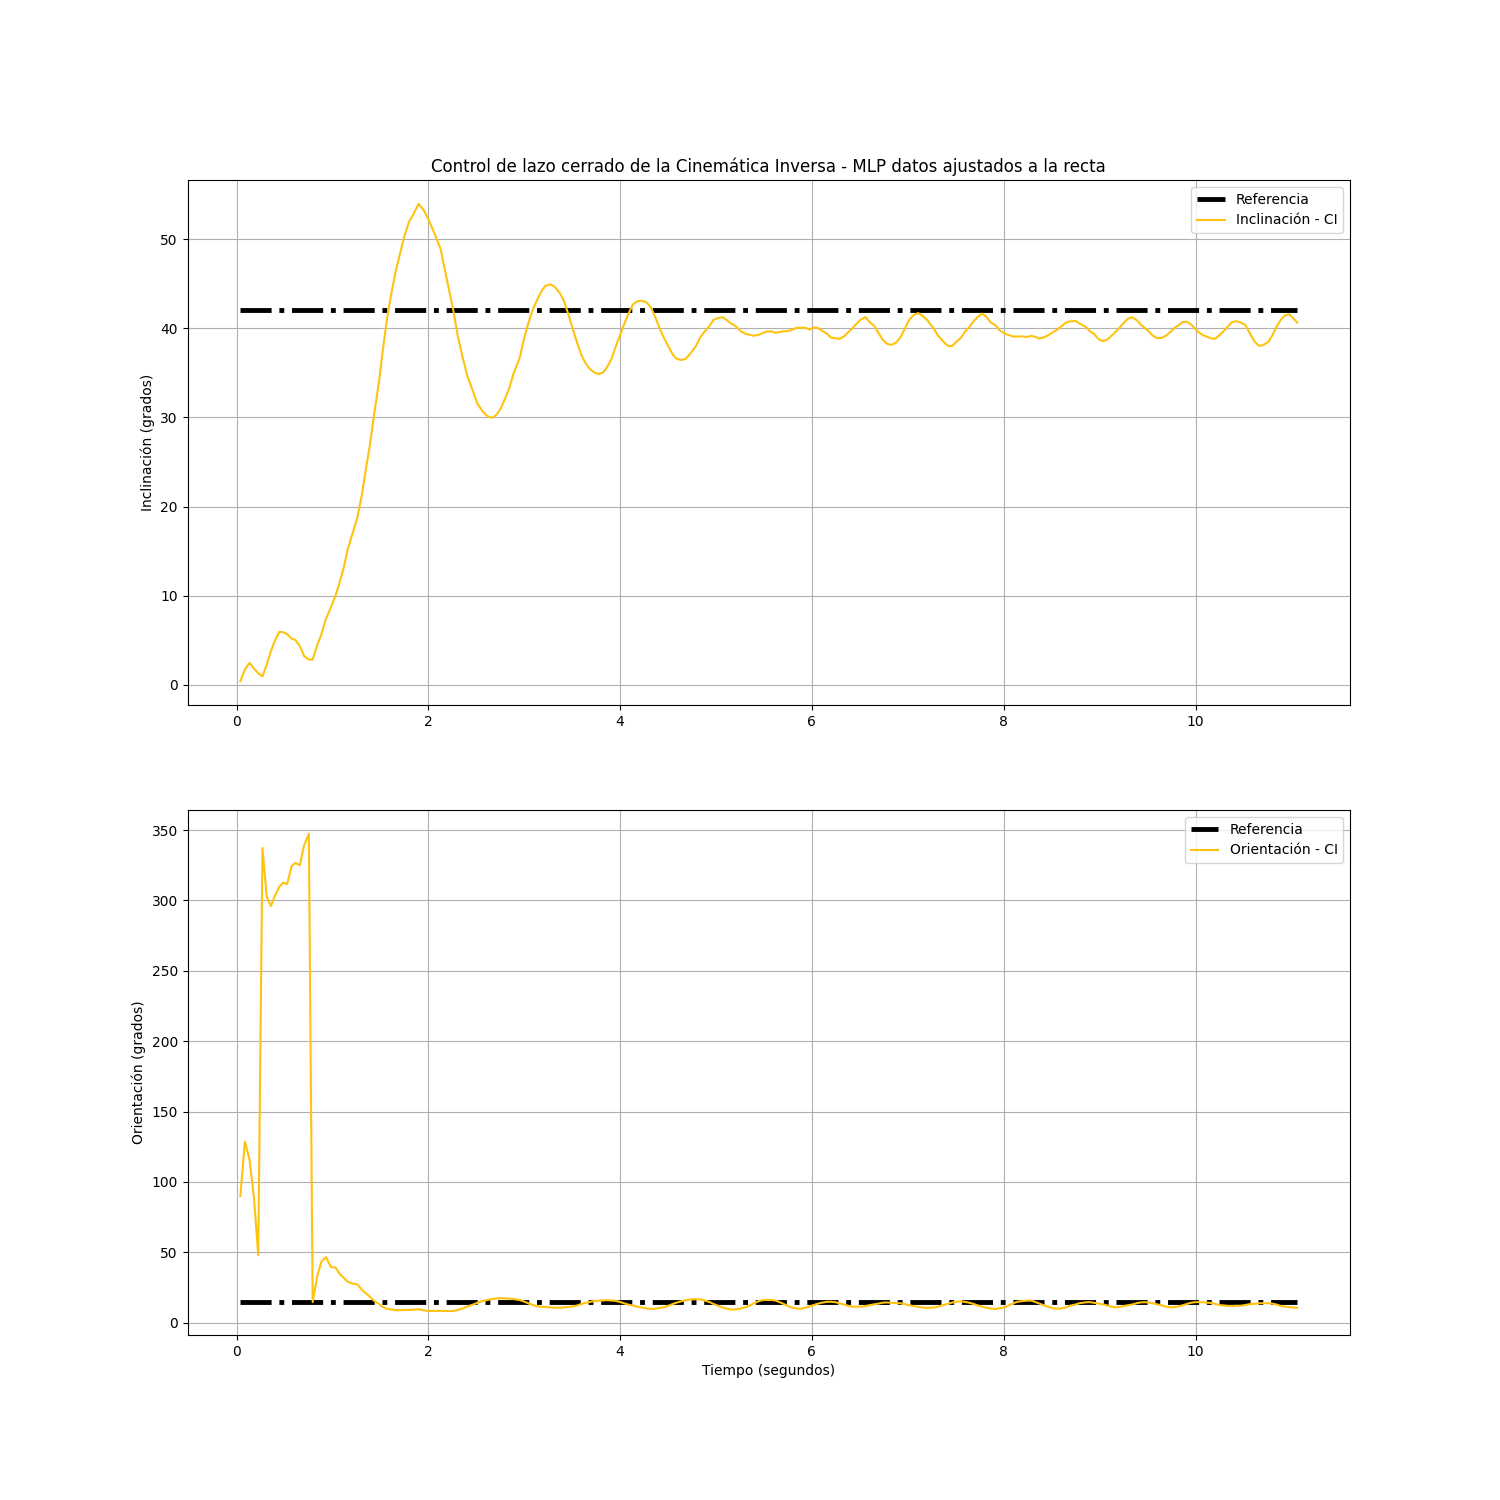
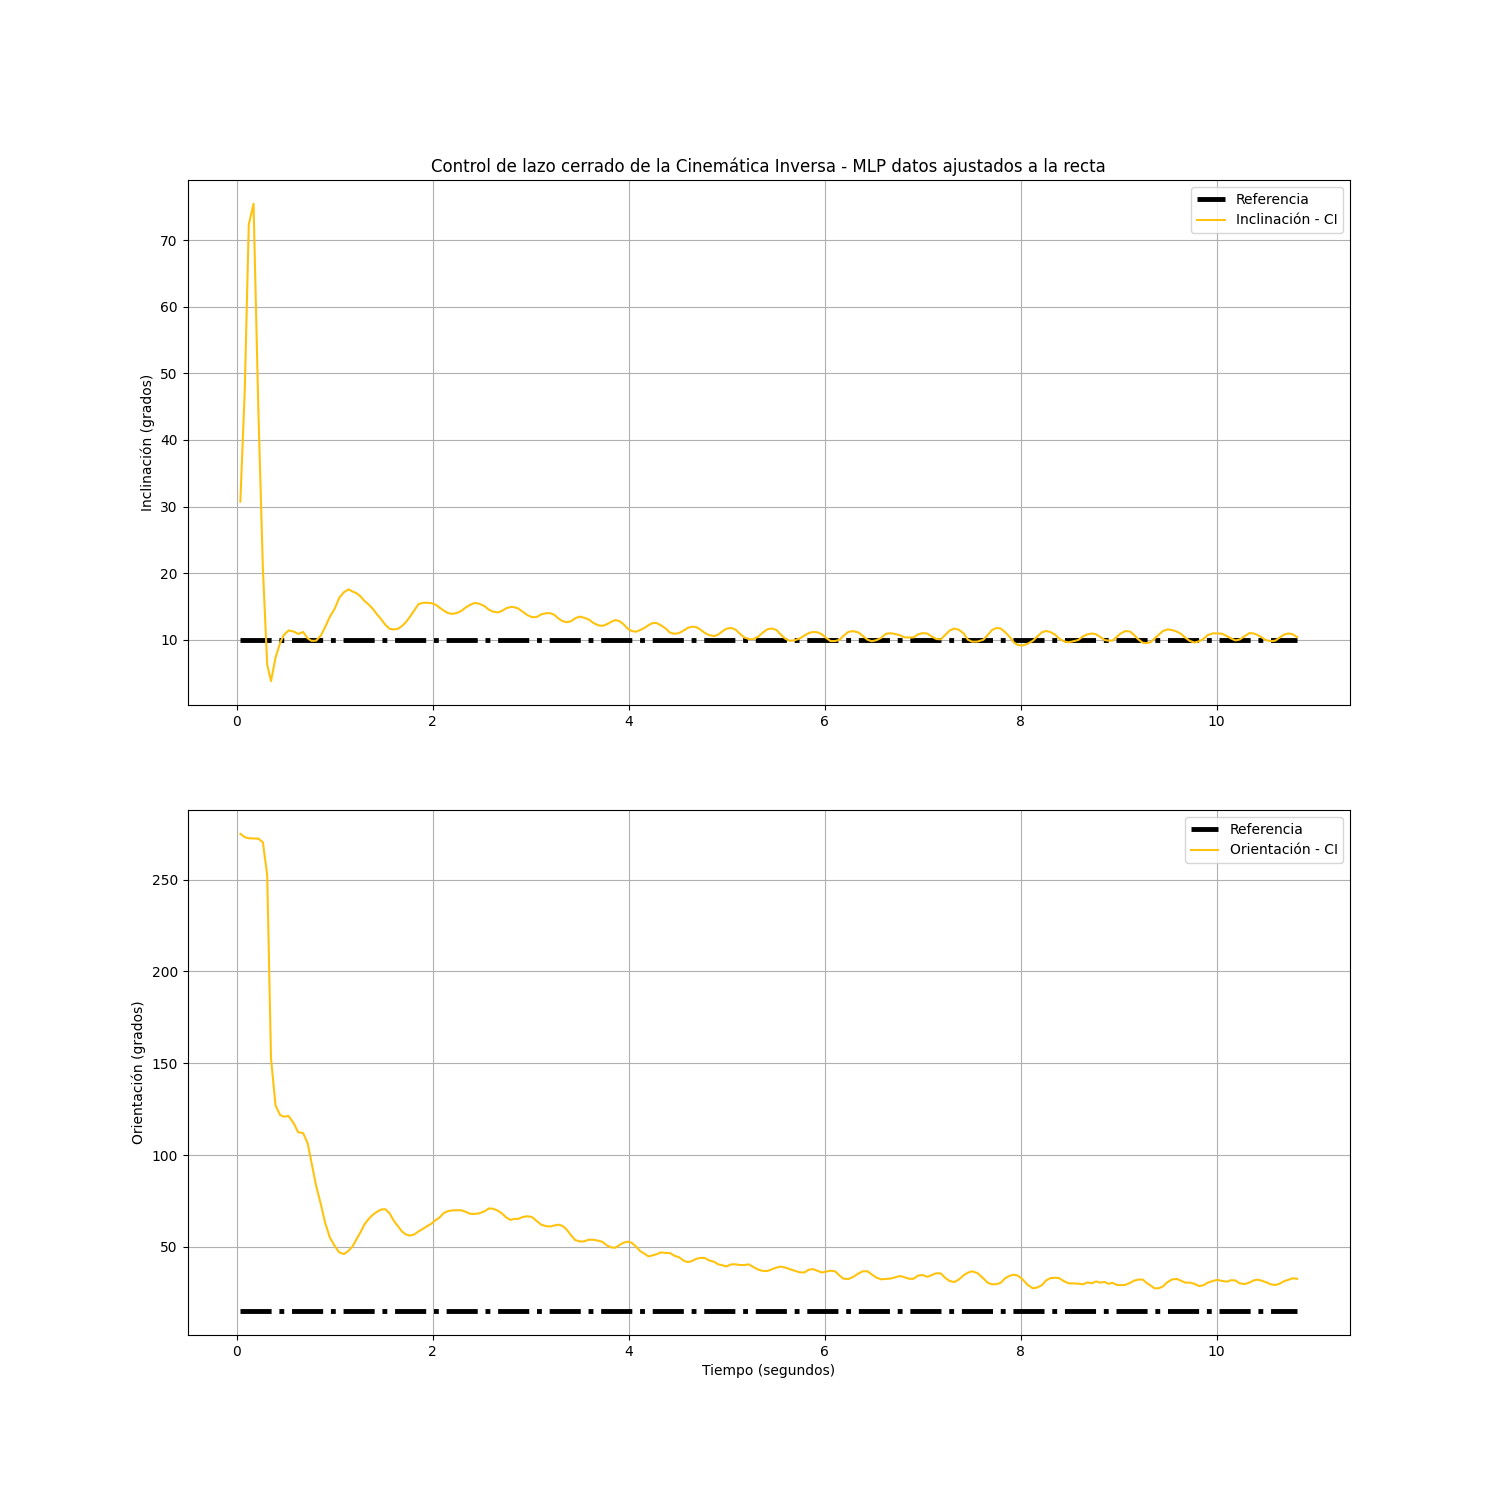
Updating Cia402device

diff --git a/CiA402DevicePython/CiA301CommPort.py b/CiA402DevicePython/CiA301CommPort.py
@@ -1,0 +1,132 @@
+# This file was automatically generated by SWIG (http://www.swig.org).
+# Version 4.0.2
+#
+# Do not make changes to this file unless you know what you are doing--modify
+# the SWIG interface file instead.
+
+from sys import version_info as _swig_python_version_info
+if _swig_python_version_info < (2, 7, 0):
+    raise RuntimeError("Python 2.7 or later required")
+
+# Import the low-level C/C++ module
+if __package__ or "." in __name__:
+    from . import _CiA301CommPort
+else:
+    import _CiA301CommPort
+
+try:
+    import builtins as __builtin__
+except ImportError:
+    import __builtin__
+
+def _swig_repr(self):
+    try:
+        strthis = "proxy of " + self.this.__repr__()
+    except __builtin__.Exception:
+        strthis = ""
+    return "<%s.%s; %s >" % (self.__class__.__module__, self.__class__.__name__, strthis,)
+
+
+def _swig_setattr_nondynamic_instance_variable(set):
+    def set_instance_attr(self, name, value):
+        if name == "thisown":
+            self.this.own(value)
+        elif name == "this":
+            set(self, name, value)
+        elif hasattr(self, name) and isinstance(getattr(type(self), name), property):
+            set(self, name, value)
+        else:
+            raise AttributeError("You cannot add instance attributes to %s" % self)
+    return set_instance_attr
+
+
+def _swig_setattr_nondynamic_class_variable(set):
+    def set_class_attr(cls, name, value):
+        if hasattr(cls, name) and not isinstance(getattr(cls, name), property):
+            set(cls, name, value)
+        else:
+            raise AttributeError("You cannot add class attributes to %s" % cls)
+    return set_class_attr
+
+
+def _swig_add_metaclass(metaclass):
+    """Class decorator for adding a metaclass to a SWIG wrapped class - a slimmed down version of six.add_metaclass"""
+    def wrapper(cls):
+        return metaclass(cls.__name__, cls.__bases__, cls.__dict__.copy())
+    return wrapper
+
+
+class _SwigNonDynamicMeta(type):
+    """Meta class to enforce nondynamic attributes (no new attributes) for a class"""
+    __setattr__ = _swig_setattr_nondynamic_class_variable(type.__setattr__)
+
+
+import PortBase
+USE_TIMEOUT = _CiA301CommPort.USE_TIMEOUT
+FIND_RETRY = _CiA301CommPort.FIND_RETRY
+class CiA301CommPort(object):
+    thisown = property(lambda x: x.this.own(), lambda x, v: x.this.own(v), doc="The membership flag")
+    __repr__ = _swig_repr
+
+    def __init__(self, *args):
+        _CiA301CommPort.CiA301CommPort_swiginit(self, _CiA301CommPort.new_CiA301CommPort(*args))
+
+    def ReadSDO(self, address):
+        return _CiA301CommPort.CiA301CommPort_ReadSDO(self, address)
+
+    def ReadNMT(self, nmtCode):
+        return _CiA301CommPort.CiA301CommPort_ReadNMT(self, nmtCode)
+
+    def WriteNMT(self, nmtCommand):
+        return _CiA301CommPort.CiA301CommPort_WriteNMT(self, nmtCommand)
+
+    def WritePDO(self, number, command):
+        return _CiA301CommPort.CiA301CommPort_WritePDO(self, number, command)
+
+    def FlushBuffer(self, *args):
+        return _CiA301CommPort.CiA301CommPort_FlushBuffer(self, *args)
+
+    def WriteSDO(self, address, value):
+        return _CiA301CommPort.CiA301CommPort_WriteSDO(self, address, value)
+
+    def WritePDO4(self, command):
+        return _CiA301CommPort.CiA301CommPort_WritePDO4(self, command)
+
+    def ReadErrorNMT(self):
+        return _CiA301CommPort.CiA301CommPort_ReadErrorNMT(self)
+
+    def ReadPDO(self, number):
+        return _CiA301CommPort.CiA301CommPort_ReadPDO(self, number)
+
+    def DisablePDOs(self):
+        return _CiA301CommPort.CiA301CommPort_DisablePDOs(self)
+
+    def EnablePDOs(self):
+        return _CiA301CommPort.CiA301CommPort_EnablePDOs(self)
+
+    def data4x8to32(self, _in, dlc):
+        return _CiA301CommPort.CiA301CommPort_data4x8to32(self, _in, dlc)
+
+    def WritePDO1(self, command):
+        return _CiA301CommPort.CiA301CommPort_WritePDO1(self, command)
+    __swig_destroy__ = _CiA301CommPort.delete_CiA301CommPort
+
+# Register CiA301CommPort in _CiA301CommPort:
+_CiA301CommPort.CiA301CommPort_swigregister(CiA301CommPort)
+
+
+cvar = _CiA301CommPort.cvar
+tx0enable = cvar.tx0enable
+tx0sub1 = cvar.tx0sub1
+tx0sub2 = cvar.tx0sub2
+tx1enable = cvar.tx1enable
+tx2enable = cvar.tx2enable
+tx3enable = cvar.tx3enable
+tx1 = cvar.tx1
+rx1 = cvar.rx1
+tx2 = cvar.tx2
+rx2 = cvar.rx2
+tx3 = cvar.tx3
+rx3 = cvar.rx3
+started = cvar.started
+

diff --git a/CiA402DevicePython/PortBase.py b/CiA402DevicePython/PortBase.py
@@ -1,0 +1,94 @@
+# This file was automatically generated by SWIG (http://www.swig.org).
+# Version 4.0.2
+#
+# Do not make changes to this file unless you know what you are doing--modify
+# the SWIG interface file instead.
+
+from sys import version_info as _swig_python_version_info
+if _swig_python_version_info < (2, 7, 0):
+    raise RuntimeError("Python 2.7 or later required")
+
+# Import the low-level C/C++ module
+if __package__ or "." in __name__:
+    from . import _PortBase
+else:
+    import _PortBase
+
+try:
+    import builtins as __builtin__
+except ImportError:
+    import __builtin__
+
+def _swig_repr(self):
+    try:
+        strthis = "proxy of " + self.this.__repr__()
+    except __builtin__.Exception:
+        strthis = ""
+    return "<%s.%s; %s >" % (self.__class__.__module__, self.__class__.__name__, strthis,)
+
+
+def _swig_setattr_nondynamic_instance_variable(set):
+    def set_instance_attr(self, name, value):
+        if name == "thisown":
+            self.this.own(value)
+        elif name == "this":
+            set(self, name, value)
+        elif hasattr(self, name) and isinstance(getattr(type(self), name), property):
+            set(self, name, value)
+        else:
+            raise AttributeError("You cannot add instance attributes to %s" % self)
+    return set_instance_attr
+
+
+def _swig_setattr_nondynamic_class_variable(set):
+    def set_class_attr(cls, name, value):
+        if hasattr(cls, name) and not isinstance(getattr(cls, name), property):
+            set(cls, name, value)
+        else:
+            raise AttributeError("You cannot add class attributes to %s" % cls)
+    return set_class_attr
+
+
+def _swig_add_metaclass(metaclass):
+    """Class decorator for adding a metaclass to a SWIG wrapped class - a slimmed down version of six.add_metaclass"""
+    def wrapper(cls):
+        return metaclass(cls.__name__, cls.__bases__, cls.__dict__.copy())
+    return wrapper
+
+
+class _SwigNonDynamicMeta(type):
+    """Meta class to enforce nondynamic attributes (no new attributes) for a class"""
+    __setattr__ = _swig_setattr_nondynamic_class_variable(type.__setattr__)
+
+
+class PortBase(object):
+    thisown = property(lambda x: x.this.own(), lambda x, v: x.this.own(v), doc="The membership flag")
+
+    def __init__(self, *args, **kwargs):
+        raise AttributeError("No constructor defined - class is abstract")
+    __repr__ = _swig_repr
+
+    def getPortId(self):
+        return _PortBase.PortBase_getPortId(self)
+
+    def FlushMsg(self):
+        return _PortBase.PortBase_FlushMsg(self)
+
+    def SetFilter(self, canId, mask):
+        return _PortBase.PortBase_SetFilter(self, canId, mask)
+
+    def GetMsg(self, canId, data, size):
+        return _PortBase.PortBase_GetMsg(self, canId, data, size)
+
+    def PutMsg(self, canId, data, size):
+        return _PortBase.PortBase_PutMsg(self, canId, data, size)
+
+    def GetNMT(self, data, size):
+        return _PortBase.PortBase_GetNMT(self, data, size)
+    __swig_destroy__ = _PortBase.delete_PortBase
+
+# Register PortBase in _PortBase:
+_PortBase.PortBase_swigregister(PortBase)
+
+
+

diff --git a/CiA402DevicePython/SocketCanPort.py b/CiA402DevicePython/SocketCanPort.py
@@ -1,0 +1,89 @@
+# This file was automatically generated by SWIG (http://www.swig.org).
+# Version 4.0.2
+#
+# Do not make changes to this file unless you know what you are doing--modify
+# the SWIG interface file instead.
+
+from sys import version_info as _swig_python_version_info
+if _swig_python_version_info < (2, 7, 0):
+    raise RuntimeError("Python 2.7 or later required")
+
+# Import the low-level C/C++ module
+if __package__ or "." in __name__:
+    from . import _SocketCanPort
+else:
+    import _SocketCanPort
+
+try:
+    import builtins as __builtin__
+except ImportError:
+    import __builtin__
+
+def _swig_repr(self):
+    try:
+        strthis = "proxy of " + self.this.__repr__()
+    except __builtin__.Exception:
+        strthis = ""
+    return "<%s.%s; %s >" % (self.__class__.__module__, self.__class__.__name__, strthis,)
+
+
+def _swig_setattr_nondynamic_instance_variable(set):
+    def set_instance_attr(self, name, value):
+        if name == "thisown":
+            self.this.own(value)
+        elif name == "this":
+            set(self, name, value)
+        elif hasattr(self, name) and isinstance(getattr(type(self), name), property):
+            set(self, name, value)
+        else:
+            raise AttributeError("You cannot add instance attributes to %s" % self)
+    return set_instance_attr
+
+
+def _swig_setattr_nondynamic_class_variable(set):
+    def set_class_attr(cls, name, value):
+        if hasattr(cls, name) and not isinstance(getattr(cls, name), property):
+            set(cls, name, value)
+        else:
+            raise AttributeError("You cannot add class attributes to %s" % cls)
+    return set_class_attr
+
+
+def _swig_add_metaclass(metaclass):
+    """Class decorator for adding a metaclass to a SWIG wrapped class - a slimmed down version of six.add_metaclass"""
+    def wrapper(cls):
+        return metaclass(cls.__name__, cls.__bases__, cls.__dict__.copy())
+    return wrapper
+
+
+class _SwigNonDynamicMeta(type):
+    """Meta class to enforce nondynamic attributes (no new attributes) for a class"""
+    __setattr__ = _swig_setattr_nondynamic_class_variable(type.__setattr__)
+
+
+import PortBase
+class SocketCanPort(PortBase.PortBase):
+    thisown = property(lambda x: x.this.own(), lambda x, v: x.this.own(v), doc="The membership flag")
+    __repr__ = _swig_repr
+
+    def __init__(self, *args):
+        _SocketCanPort.SocketCanPort_swiginit(self, _SocketCanPort.new_SocketCanPort(*args))
+    __swig_destroy__ = _SocketCanPort.delete_SocketCanPort
+
+    def SetFilter(self, canId, mask):
+        return _SocketCanPort.SocketCanPort_SetFilter(self, canId, mask)
+
+    def GetMsg(self, canId, data, size):
+        return _SocketCanPort.SocketCanPort_GetMsg(self, canId, data, size)
+
+    def PutMsg(self, canId, data, size):
+        return _SocketCanPort.SocketCanPort_PutMsg(self, canId, data, size)
+
+    def GetNMT(self, data, size):
+        return _SocketCanPort.SocketCanPort_GetNMT(self, data, size)
+
+# Register SocketCanPort in _SocketCanPort:
+_SocketCanPort.SocketCanPort_swigregister(SocketCanPort)
+
+
+

diff --git a/src/control_motor_one_position.py b/src/control_motor_one_position.py
@@ -48,7 +48,7 @@ mi_sensor = Sensor()
 mi_sensor.sensorStream()
 
 # Trget values
-incli_target = 42
+incli_target = 10
 orient_target = 15
 
 # Instantiate InverseKinematics class
@@ -95,8 +95,8 @@ for step in np.arange(0,12,0.05):
     #orient_rect = ik_orient + error_o
     incli_rect = incli_target + error_i
     orient_rect = orient_target #+ error_o
-    if error_o<= 90:
-        orient_rect = orient_target + error_o
+    #if error_o<= 90:
+    #    orient_rect = orient_target + error_o
 
     kine2 = InverseKinematics(incli_rect, orient_rect)
     theta_rect1, theta_rect2, theta_rect3 = kine2.neckInverseKinematics() 

diff --git a/src/control_motor_trajectory.py b/src/control_motor_trajectory.py
@@ -78,7 +78,6 @@ mean_motors = -0.045458604279763254
 std_motors = 0.2670333006545897
 
 range_incli = range(40, 4, -10)
-
 # Inclination's repetition
 for incli_target in range_incli:
     # Orientation's repetition

diff --git a/src/goHome.py b/src/goHome.py
@@ -1,0 +1,3 @@
+from model.system_motors import SystemMotors
+from model.inverse_kinematics import InverseKinematics
+from model.sensor import Sensor
